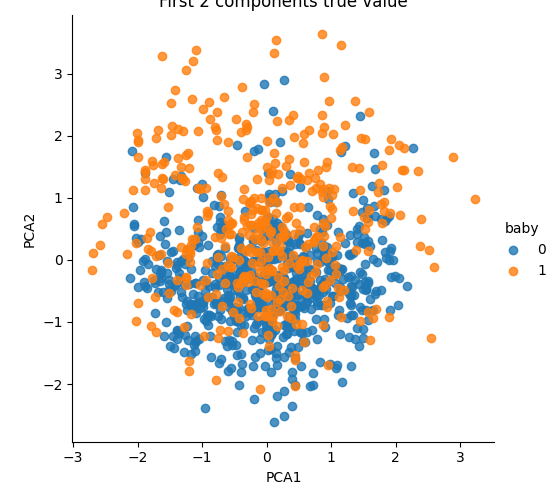
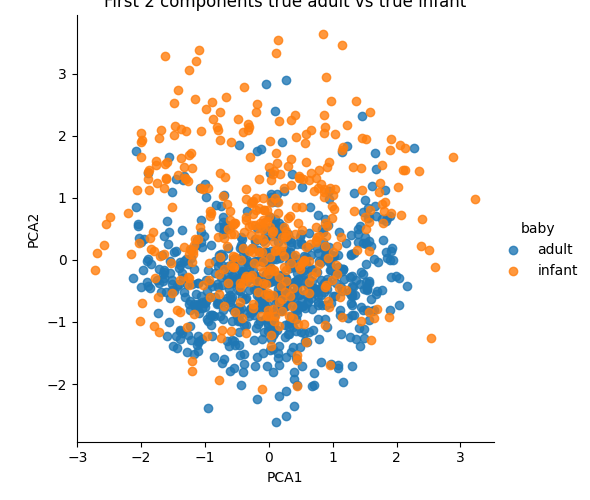
revision correspond to pbnotes

diff --git a/src/zw_svc_geometric_value.py b/src/zw_svc_geometric_value.py
@@ -59,27 +59,33 @@ n_Support_vector = svc_trained.n_support_
 print("Number of support vector: ", n_Support_vector)
 Support_vector_index = svc_trained.support_
 
-# Plot geometric values and support vectors
+# Plot true values
 X_geometric['baby'] = y
+for i in X_geometric.index:
+	X_geometric.loc[i, 'baby'] = 'adult' if X_geometric.loc[i, 'baby'] == 0 else 'infant'
 sns.scatterplot(data=X_geometric, x='boxratio', y='interoc_norm',
 				hue='baby',
 				legend=True)
-plt.title('Scatter plot of all samples with geometric values')
+plt.title('All samples with true adult vs true infant')
 plt.savefig('figs/Geometric_values')
 plt.show()
 
-# Plot predict vs true
+# Plot predicted values
 X_geometric['pre'] = svc_trained.predict(X_geometric.loc[:, ['boxratio', 'interoc_norm']])
+for i in X_geometric.index:
+	X_geometric.loc[i, 'pre'] = 'adult' if X_geometric.loc[i, 'pre'] == 0 else 'infant'
 sns.scatterplot(data=X_geometric, x='boxratio', y='interoc_norm',
 				hue='pre',
 				legend=True)
-plt.title('Scatter plot of predict vs true')
+plt.title('All samples with predicted adult vs predicted infant')
 plt.savefig('figs/Geometric_values_pre_vs_true')
 plt.show()
 
-# Plot support vecrors
+# Plot support vectors
 support_vector = X_train.iloc[Support_vector_index][:]
 support_vector['baby'] = y_train.iloc[Support_vector_index][:]
+for i in support_vector.index:
+	support_vector.loc[i, 'baby'] = 'adult' if support_vector.loc[i, 'baby'] == 0 else 'infant'
 sns.scatterplot(data=support_vector, x='boxratio', y='interoc_norm',
 				hue='baby',
 				legend=True)

diff --git a/src/zw_svc_landmarks.py b/src/zw_svc_landmarks.py
@@ -12,6 +12,7 @@ import matplotlib.pyplot as plt
 # Get data
 df = pd.read_csv('data/merged_landmarks.csv')
 X_original = df.loc[:, 'norm_cenrot-x0':'norm_cenrot-y67']
+# X_original = df.loc[:, 'x0':'y67']
 y = df.loc[:, 'baby']
 X_train, X_test, y_train, y_test = train_test_split(X_original, y,
 													test_size=0.33,
@@ -147,13 +148,17 @@ print(classification_report(y_test, y_predict_2, target_names=['adult', 'infant'
 pca = PCA(whiten=True, n_components=2)
 X_2d = pd.DataFrame(pca.fit_transform(X_original))
 X_2d['PCA1'], X_2d['PCA2'], X_2d['baby'] = X_2d[0], X_2d[1], y
+for i in X_2d.index:
+	X_2d.loc[i, 'baby'] = 'adult' if X_2d.loc[i, 'baby'] == 0 else 'infant'
 sns.lmplot(data=X_2d, x='PCA1', y='PCA2', hue='baby',legend=True, fit_reg=False)
-plt.title('First 2 components true value')
+plt.title('First 2 components true adult vs true infant')
 plt.savefig('figs/PCA_of_landmarks_infant')
 plt.show()
 
 X_2d['pre'] = model_2.predict(X_original)
+for i in X_2d.index:
+	X_2d.loc[i, 'pre'] = 'adult' if X_2d.loc[i, 'pre'] == 0 else 'infant'
 sns.lmplot(data=X_2d, x='PCA1', y='PCA2', hue='pre',legend=True, fit_reg=False)
-plt.title('First 2 components predicted value')
+plt.title('First 2 components predicted adult vs predicted infant')
 plt.savefig('figs/PCA_of_landmarks_predict')
 plt.show()

diff --git a/svc.md b/svc.md
@@ -4,15 +4,22 @@ Applied SVC to landmarks and to geometric values.
 
 `GridSearchCV` in both methods are applied to the train set, and classification reports are generated from the test set.
 
+Landmarks are already normalized and geometric values are computed from the normalized landmarks.
+
+Can reproduce all results by using `make svc_landmarks` and `make svc_geometric`, or simply run `src/zw_svc_landmarks.py` and `src/zw_svc_geometric_value.py`.
+
 ### Landmarks
 
 There are 68 landmarks and two axis, x and y, for each landmark so there are 136 predictors in total.
 
 Considering the number of predictors, we first applied `PCA` to reduce the number of dimension and then used `SVC` for classification. `GridSearchCV` is used to find the best hyperparameters for both `PCA` and `SVC`.
 
-Bellow are the hyperparameters of `PCA` and `SVC`, and classification report on landmarks.
+Bellow is the classification report on landmarks.
 
-<img src="figs/SVC_best_landmarks.png">
+`n_components = 55`
+- Accuracy: 0.99
+- adult f1-score: 0.99
+- infant f1-score: 0.99
 
 The score of landmarks could be an upper bound for model performance since it contains all information in the landmarks. 
 
@@ -22,13 +29,26 @@ Bellow is the confusion matrix of classification.
 
 <img src="figs/SVC_landmarks.png">
 
-Validation curve on `n_components`. The `F1_score` is actually pretty good when `n_components=15`
+Since the above two graphs are for `n_components = 55` which is a quite big number, we also draw a validation curve on `n_components`. The `F1_score` is actually pretty good when `n_components = 15`
 
 <img src="figs/SVC_vali_landmarks.png">
 
-So we printed more classification reports with different number of principal component. Other hyperparameters are the same as in the previous model.
+So we printed more classification reports with different number of principal component. Other hyperparameters are the same as in the model with `n_components = 55`.
 
-<img src="figs/SVC_other_landmarks.png">
+`n_components = 15`
+- Accuracy: 0.98
+- adult f1-score: 0.99
+- infant f1-score: 0.98
+
+`n_components = 5`
+- Accuracy: 0.84
+- adult f1-score: 0.88
+- infant f1-score: 0.76
+
+`n_components = 2`
+- Accuracy: 0.74
+- adult f1-score: 0.82
+- infant f1-score: 0.53
 
 The score for `n_components = 15` is still pretty good, and `n_components = 5` is not that bad. But `n_components = 2` is simply guessing for the infant samples.
 
@@ -37,15 +57,45 @@ As the scatter plot of the first two principals shows bellow, the model with `n_
 <img src="figs/PCA_of_landmarks_infant.png">
 <img src="figs/PCA_of_landmarks_predict.png">
 
+All above results are based on normalized landmarks. Bellow we add some results for using not normalized landmarks.
+
+`n_components = 55`
+- Accuracy: 0.98
+- adult f1-score: 0.98
+- infant f1-score: 0.97
+
+`n_components = 15`
+- Accuracy: 0.98
+- adult f1-score: 0.98
+- infant f1-score: 0.97
+
+`n_components = 5`
+- Accuracy: 0.78
+- adult f1-score: 0.85
+- infant f1-score: 0.61
+
+`n_components = 2`
+- Accuracy: 0.75
+- adult f1-score: 0.83
+- infant f1-score: 0.54
+
+And the first two principal components using not normalized landmarks.
+
+<img src="figs/PCA_of_landmarks_infant_not_normalized.png">
+<img src="figs/PCA_of_landmarks_predict_not_normalized.png">
+
 ### Geometric Values
 
-Now we use the two geometric values, `boxratio` and `interoclar_norm`, as predictors. They correspond to the `box width / box height` and `box size / interocular didtance` in `TABLE II` of Dr. Wan's paper. 
+Now we use the two geometric values, `boxratio` and `interoclar_norm`, as predictors. Those two predictors are computed from the normalized landmarks, and they correspond to the `box width / box height` and `box size / interocular didtance` in `TABLE II` of Dr. Wan's paper. 
 
-Bellow are the hyperparameters of `SVC`, and performance on geometric values. The classification report is generated on the test set, and the last lines shows the number of support vectors in the train set with 736 samples.
+Bellow is the performance on geometric values. The classification report is generated on the test set, and the last lines shows the number of support vectors in the train set with 736 samples.
 
-<img src="figs/SVC_model_geometric.png">
+- Accuracy: 0.91
+- adult f1-score: 0.93
+- infant f1-score: 0.87
+- Number of support vector: 80 (adult), 78 (infant)
 
-The performance on the two geometric values is nice and it's between the performance with `n_components = 5` and `n_components = 15` in the model using landmarks. This could serve as a lower bound since it requires only the ratio of box width to box height and box size to interocular distance.
+The performance on the two geometric values is nice, and it's between the performance with `n_components = 5` and `n_components = 15` in the model using landmarks. This could serve as a lower bound since it requires only the ratio of box width to box height and box size to interocular distance.
 
 Little preprocessing is needed given the bounding box and landmarks. It’s also more interpretable as we know the meaning of the predictors.
 
@@ -57,13 +107,16 @@ Here is a scatter plot with `boxratio` and `interoc_norm` as axis. The points te
 
 <img src="figs/Geometric_values.png">
 
-And if we draw the same scatter plot with predicted value vs true value. 
+And if we draw the same scatter plot with predicted value. 
+
 <img src="figs/Geometric_values_pre_vs_true.png">
 
 Same plot on a meshgrid.
+
 <img src="figs/SVC_meshgrid_of_geometric.png">
 
 
 The support vectors in the train set. They tend to form a curved boundary between infant and adult samples. 
+
 <img src="figs/Support_Vectors.png">
 
